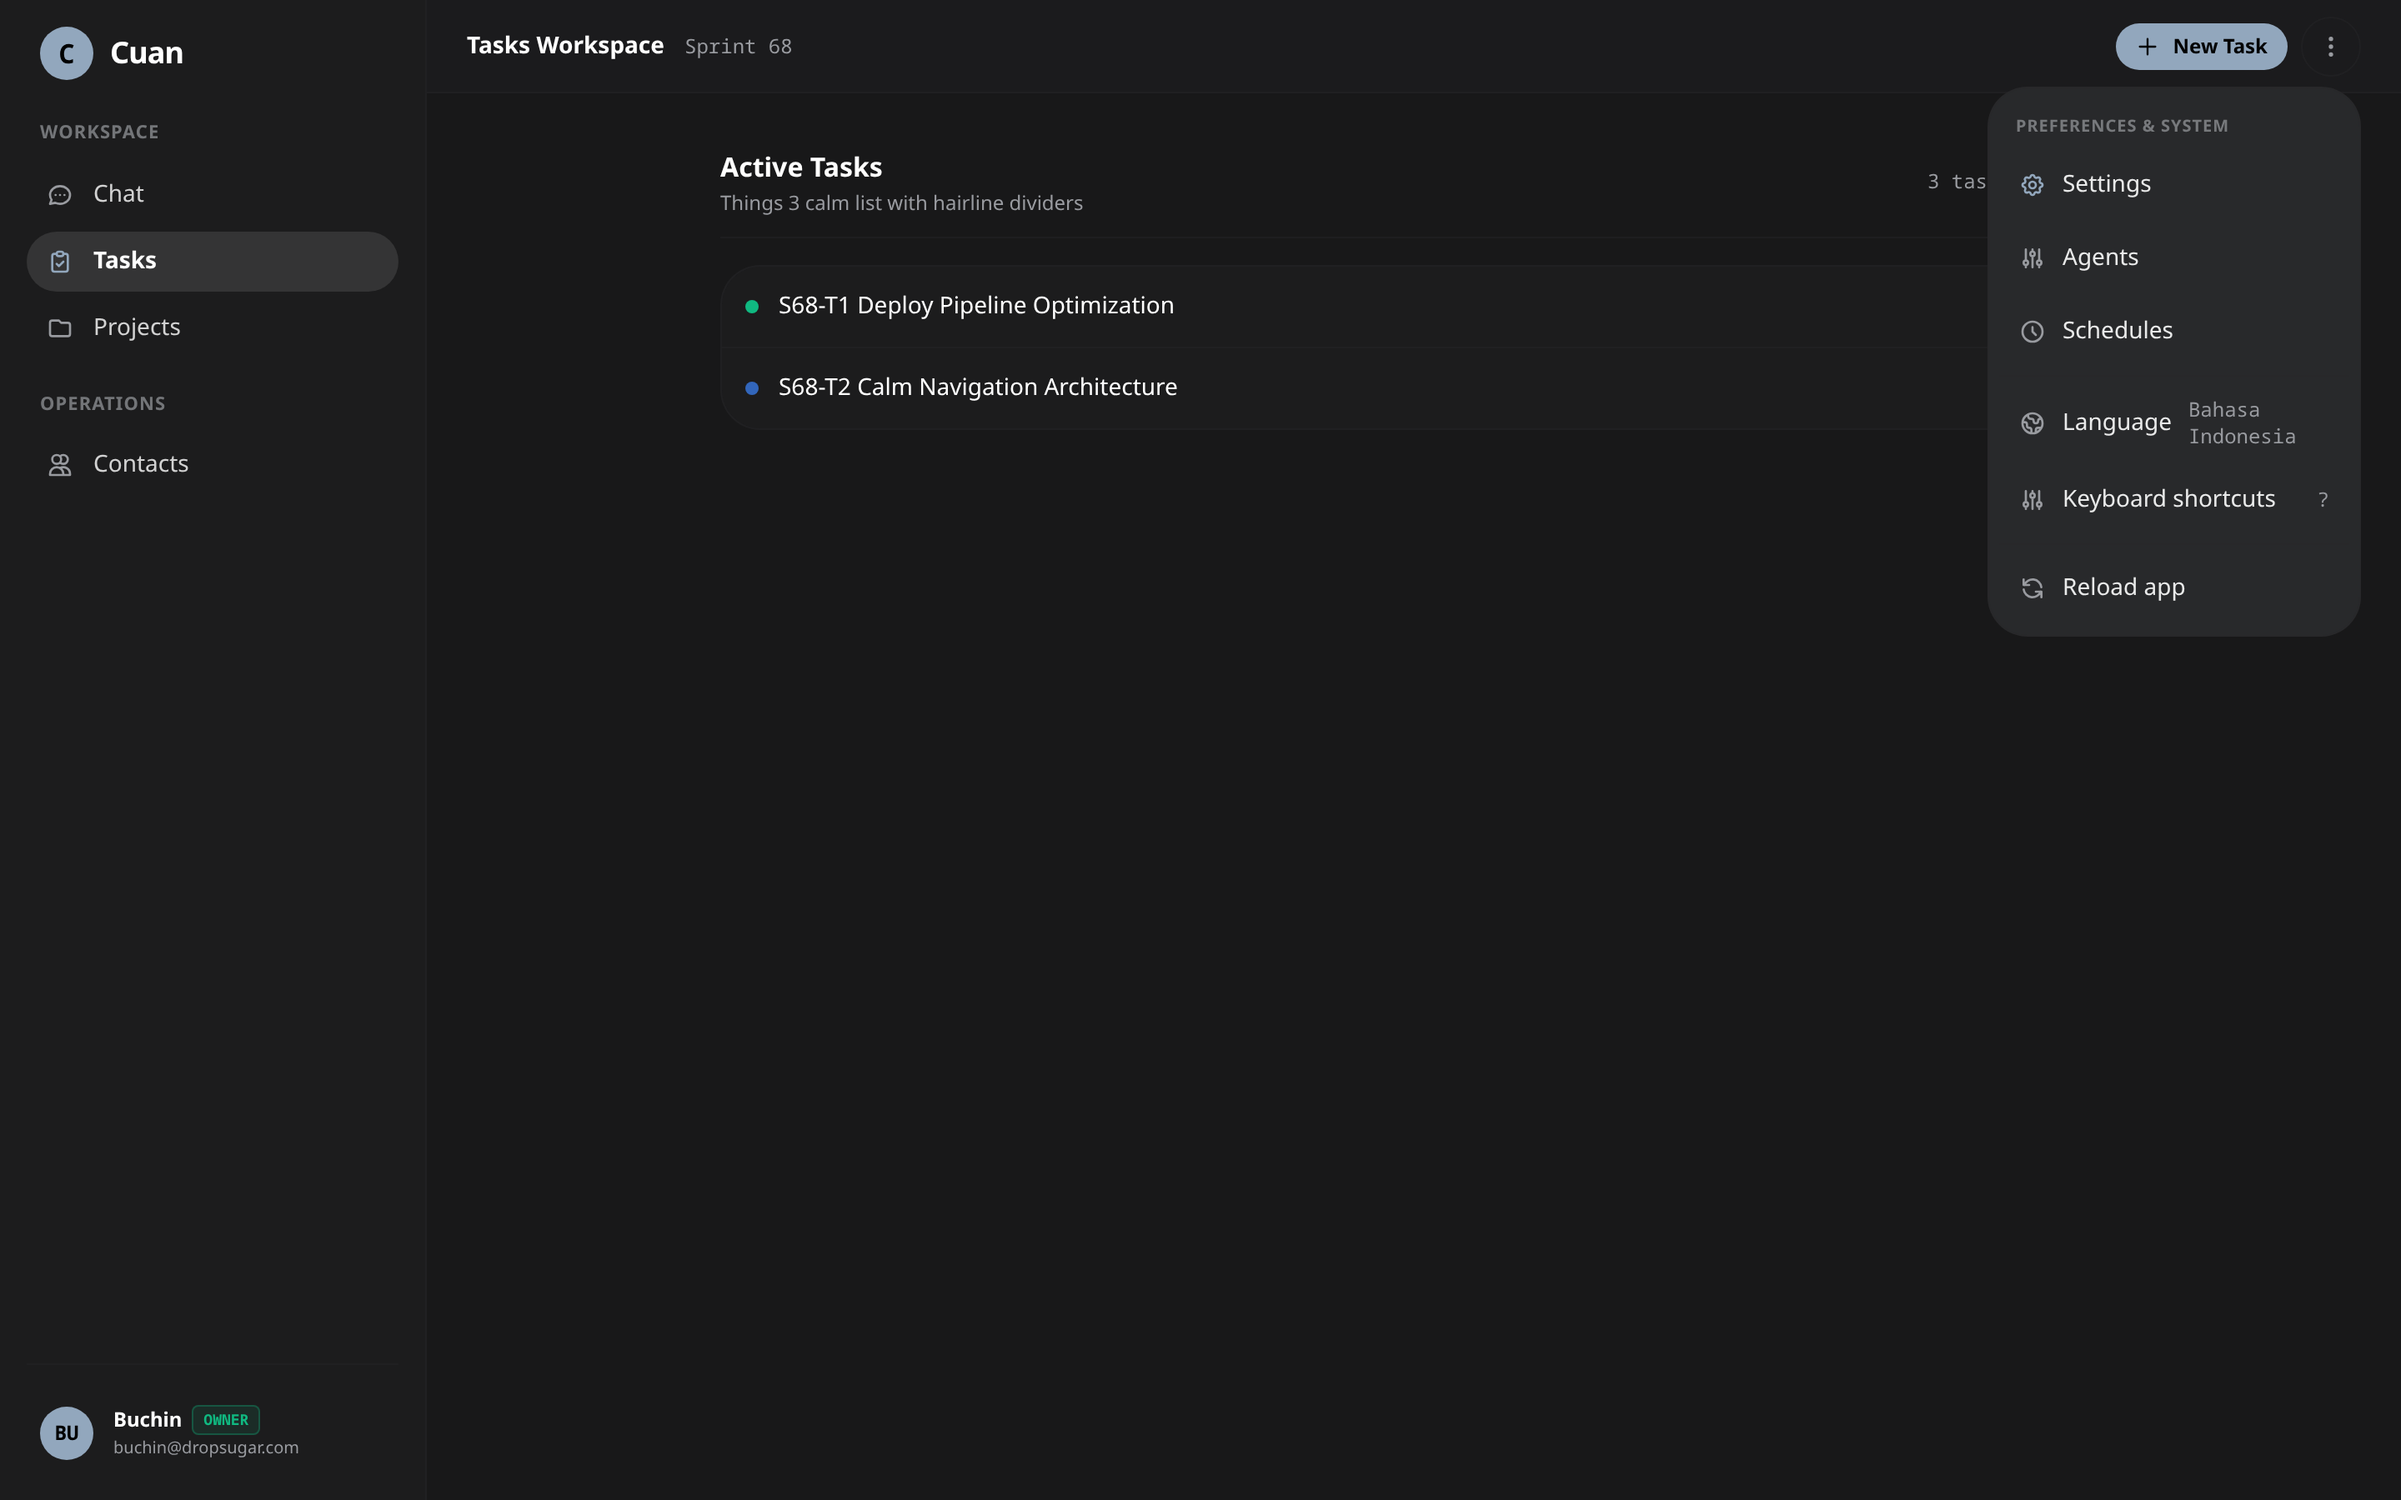
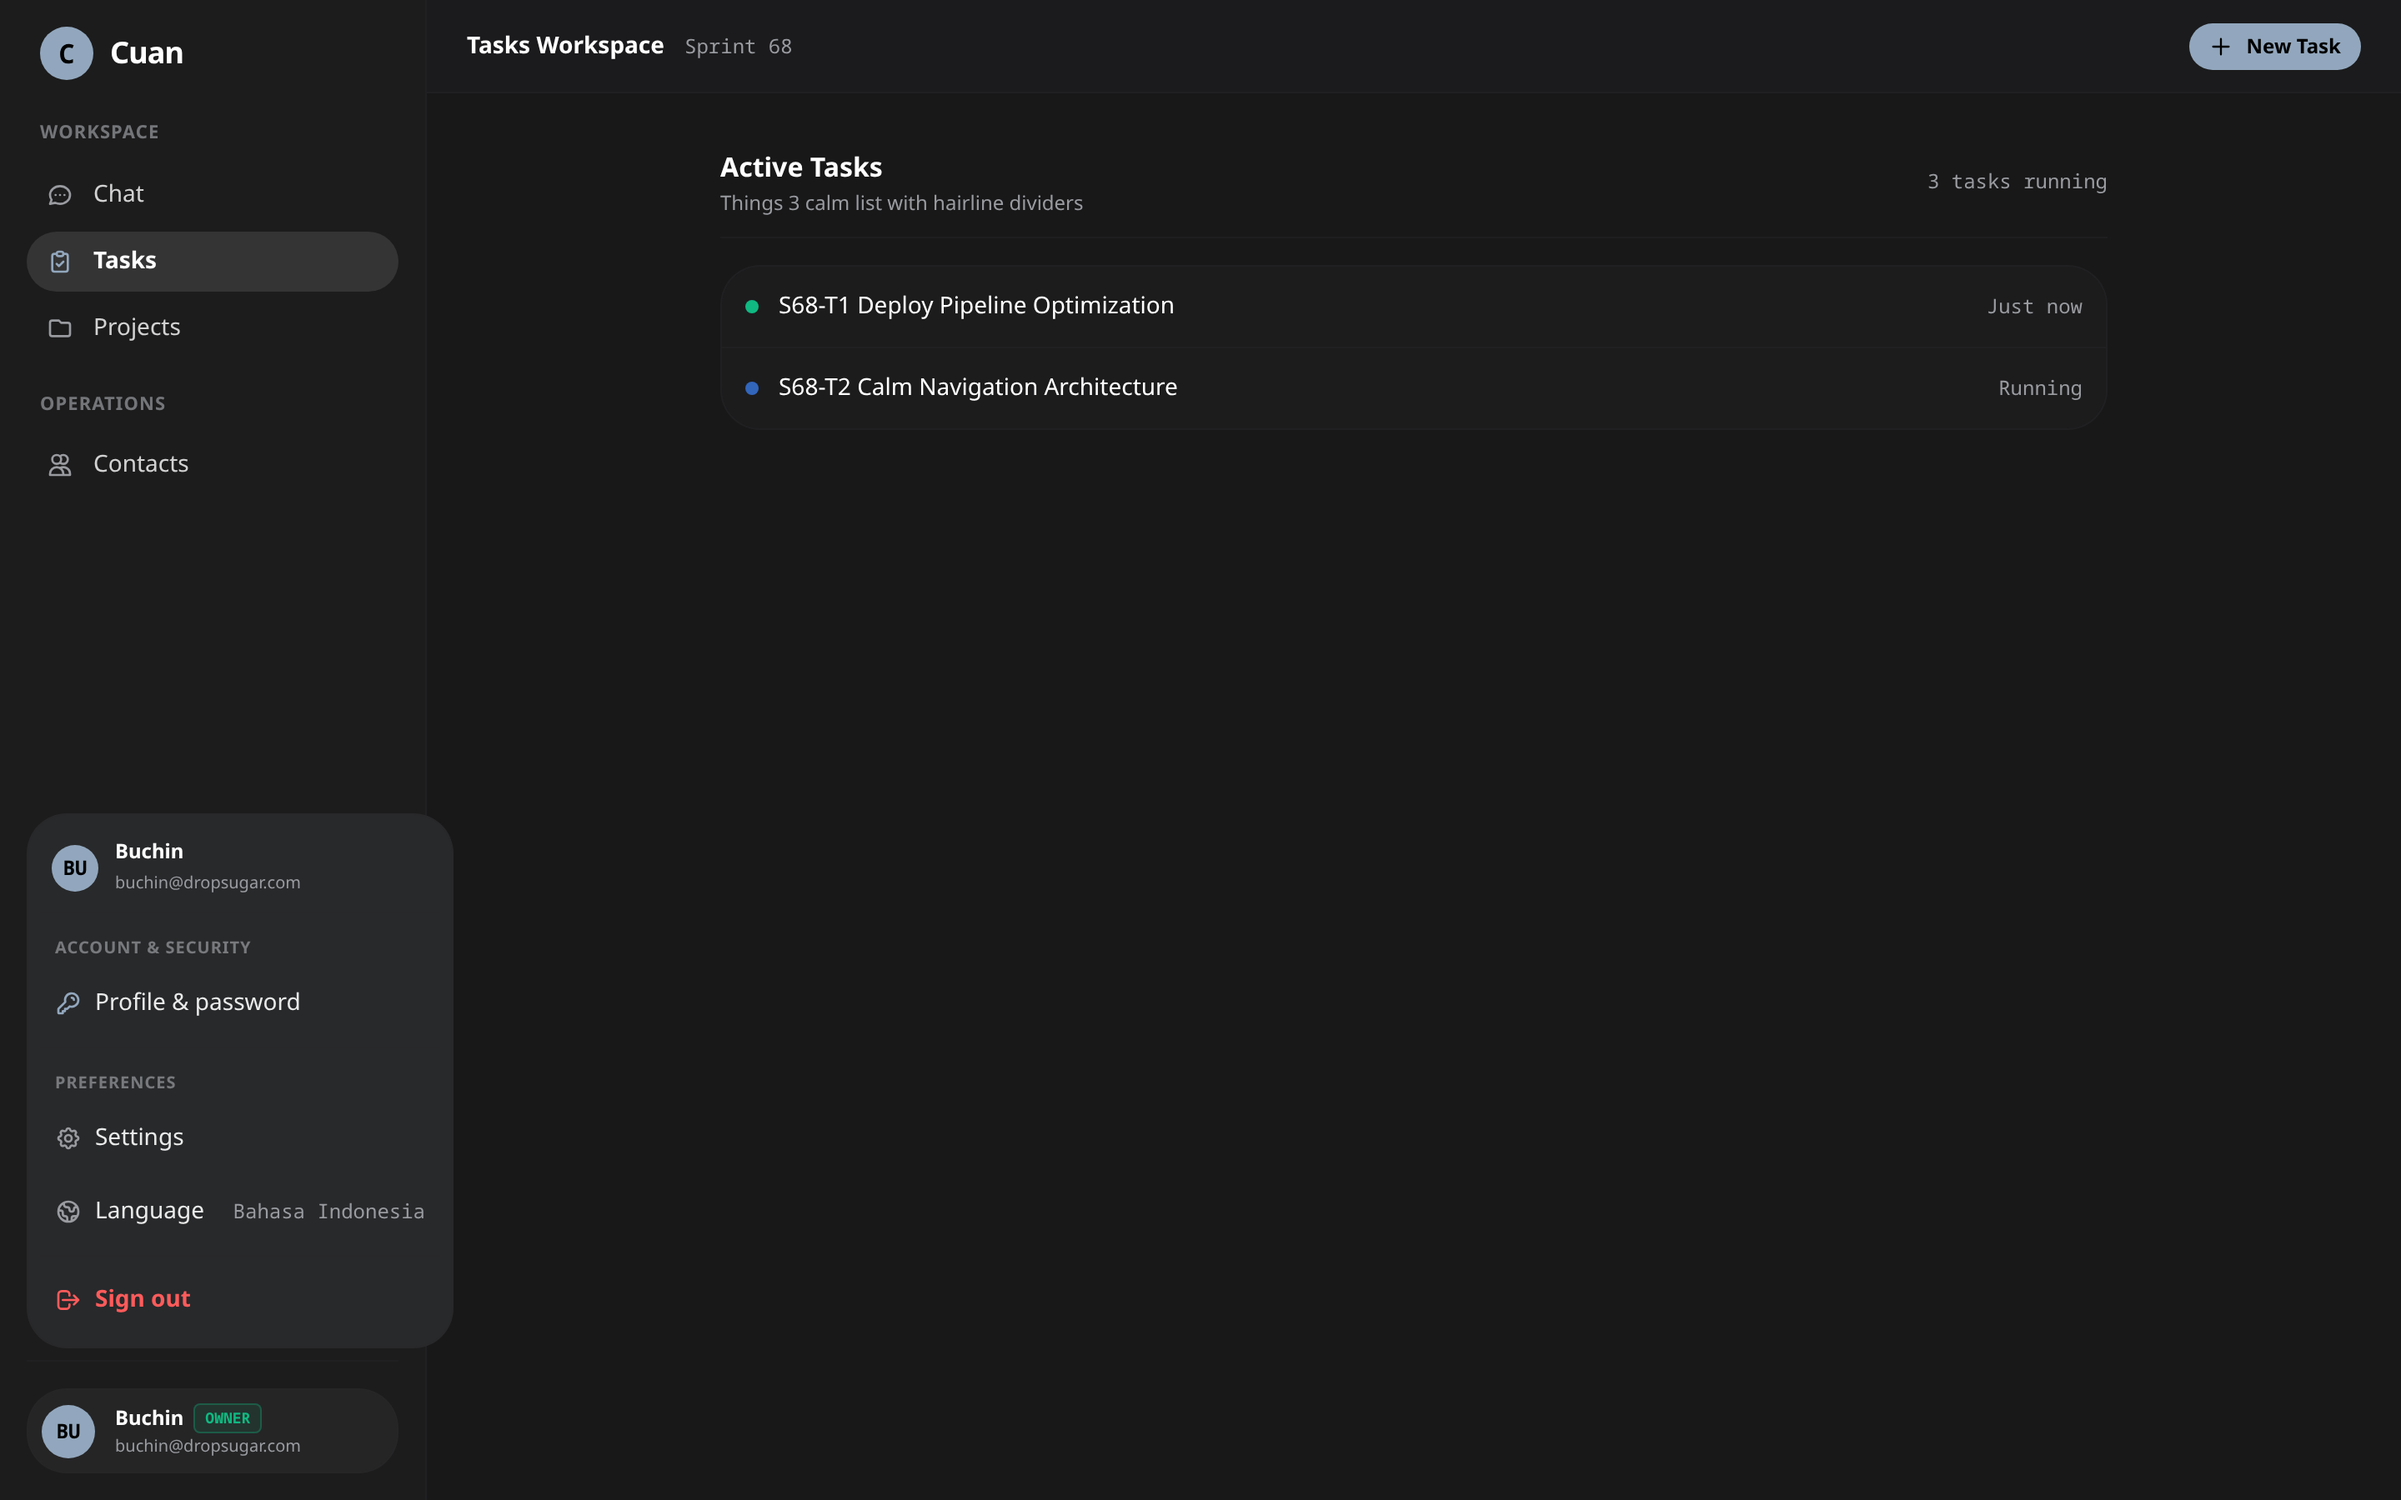
refactor(nav): eradicate redundant header MoreVertical menu, unifying all preferences in NavUser

diff --git a/web/src/components/layout/AppShell.tsx b/web/src/components/layout/AppShell.tsx
@@ -10,7 +10,6 @@ import { CuanMark } from '../brand/CuanMark'
 import { NavUser } from './NavUser'
 import { CreateAction } from './CreateAction'
 import { SlideDrawer } from './SlideDrawer'
-import { ReloadButton } from '../ui/ReloadButton'
 import {
   Inbox,
   CheckSquare,
@@ -19,11 +18,6 @@ import {
   Users,
   Settings,
   MessageSquare,
-  MoreVertical,
-  Bot,
-  Clock,
-  Globe,
-  Keyboard,
 } from 'lucide-react'
 import { cn } from '../../lib/utils'
 
@@ -123,44 +117,17 @@ export function AppShell({
   breadcrumbs = [],
   hideSearch,
 }: AppShellProps) {
-  const { t, language, setPreference } = useLanguage()
+  const { t } = useLanguage()
   const { isOwner, user } = useAuth()
   const effectiveInboxUnread = inboxUnreadCount ?? inboxUnread
 
   const routerNavigate = useNavigate()
   const location = useLocation()
   const [mobileMenuOpen, setMobileMenuOpen] = useState(false)
-  const [moreMenuOpen, setMoreMenuOpen] = useState(false)
-  const moreMenuRef = useRef<HTMLDivElement>(null)
 
   useEffect(() => {
     setMobileMenuOpen(false)
-    setMoreMenuOpen(false)
   }, [location.pathname])
-
-  useEffect(() => {
-    function handleClickOutside(event: MouseEvent) {
-      if (
-        moreMenuRef.current &&
-        !moreMenuRef.current.contains(event.target as Node)
-      ) {
-        setMoreMenuOpen(false)
-      }
-    }
-    const handleKeyDown = (e: KeyboardEvent) => {
-      if (e.key === 'Escape') {
-        setMoreMenuOpen(false)
-      }
-    }
-    if (moreMenuOpen) {
-      document.addEventListener('mousedown', handleClickOutside)
-      document.addEventListener('keydown', handleKeyDown)
-    }
-    return () => {
-      document.removeEventListener('mousedown', handleClickOutside)
-      document.removeEventListener('keydown', handleKeyDown)
-    }
-  }, [moreMenuOpen])
 
   // Eliminate redundant top navigation search icon on views with internal search inputs/filters or settings/account
   const hasInternalSearch =
@@ -477,106 +444,6 @@ export function AppShell({
               />
               </div>
             )}
-            <div className="relative" ref={moreMenuRef}>
-              <button
-                type="button"
-                data-testid="header-more-menu-trigger"
-                aria-label={t('More options')}
-                aria-expanded={moreMenuOpen}
-                onClick={() => setMoreMenuOpen((open) => !open)}
-                className="icon-action text-muted-foreground hover:text-foreground"
-                title={t('More options')}
-              >
-                <MoreVertical className="h-5 w-5" />
-              </button>
-              {moreMenuOpen && (
-                <div
-                  data-testid="header-more-menu"
-                  role="menu"
-                  className="absolute right-0 top-full mt-1.5 z-50 min-w-52 bg-popover text-popover-foreground border border-border/40 shadow-lg p-1.5 rounded-xl text-sm"
-                >
-                  <button
-                    type="button"
-                    role="menuitem"
-                    data-testid="more-menu-settings"
-                    onClick={() => {
-                      setMoreMenuOpen(false)
-                      routerNavigate('/settings')
-                    }}
-                    className="flex min-h-11 w-full items-center gap-2.5 px-3 py-2 text-sm text-foreground/90 hover:bg-muted/50 rounded-lg transition-colors text-left"
-                  >
-                    <Settings className="h-4 w-4 text-muted-foreground shrink-0" />
-                    <span>{t('Settings')}</span>
-                  </button>
-                  <button
-                    type="button"
-                    role="menuitem"
-                    data-testid="more-menu-agents"
-                    onClick={() => {
-                      setMoreMenuOpen(false)
-                      routerNavigate('/agents')
-                    }}
-                    className="flex min-h-11 w-full items-center gap-2.5 px-3 py-2 text-sm text-foreground/90 hover:bg-muted/50 rounded-lg transition-colors text-left"
-                  >
-                    <Bot className="h-4 w-4 text-muted-foreground shrink-0" />
-                    <span>{t('Agents')}</span>
-                  </button>
-                  <button
-                    type="button"
-                    role="menuitem"
-                    data-testid="more-menu-schedules"
-                    onClick={() => {
-                      setMoreMenuOpen(false)
-                      routerNavigate('/schedules')
-                    }}
-                    className="flex min-h-11 w-full items-center gap-2.5 px-3 py-2 text-sm text-foreground/90 hover:bg-muted/50 rounded-lg transition-colors text-left"
-                  >
-                    <Clock className="h-4 w-4 text-muted-foreground shrink-0" />
-                    <span>{t('Schedules')}</span>
-                  </button>
-
-                  <div className="h-px bg-border/40 my-1" />
-
-                  <button
-                    type="button"
-                    role="menuitem"
-                    data-testid="more-menu-language-toggle"
-                    onClick={() => {
-                      const next = language === 'id' ? 'en' : 'id'
-                      setPreference(next)
-                    }}
-                    className="flex min-h-11 w-full items-center gap-2.5 px-3 py-2 text-sm text-foreground/90 hover:bg-muted/50 rounded-lg transition-colors text-left"
-                  >
-                    <Globe className="h-4 w-4 text-muted-foreground shrink-0" />
-                    <span>{t('Language')}</span>
-                    <span className="ml-auto text-xs font-mono font-medium text-muted-foreground">
-                      {language === 'id' ? 'Bahasa Indonesia' : 'English'}
-                    </span>
-                  </button>
-
-                  <button
-                    type="button"
-                    role="menuitem"
-                    className="hidden sm:flex min-h-11 w-full items-center gap-2.5 px-3 py-2 text-sm text-foreground/90 hover:bg-muted/50 rounded-lg transition-colors text-left"
-                    onClick={() => {
-                      setMoreMenuOpen(false)
-                      window.dispatchEvent(new Event('cuan:keyboard-shortcuts'))
-                    }}
-                  >
-                    <Keyboard className="h-4 w-4 text-muted-foreground shrink-0" />
-                    <span>{t('Keyboard shortcuts')}</span>
-                    <kbd className="ml-auto text-xs text-muted-foreground font-mono">?</kbd>
-                  </button>
-
-                  <div className="h-px bg-border/40 my-1" />
-
-                  <ReloadButton
-                    variant="menu-item"
-                    label={t('Reload app')}
-                  />
-                </div>
-              )}
-            </div>
           </div>
         </header>
         {secondaryNavigation}
